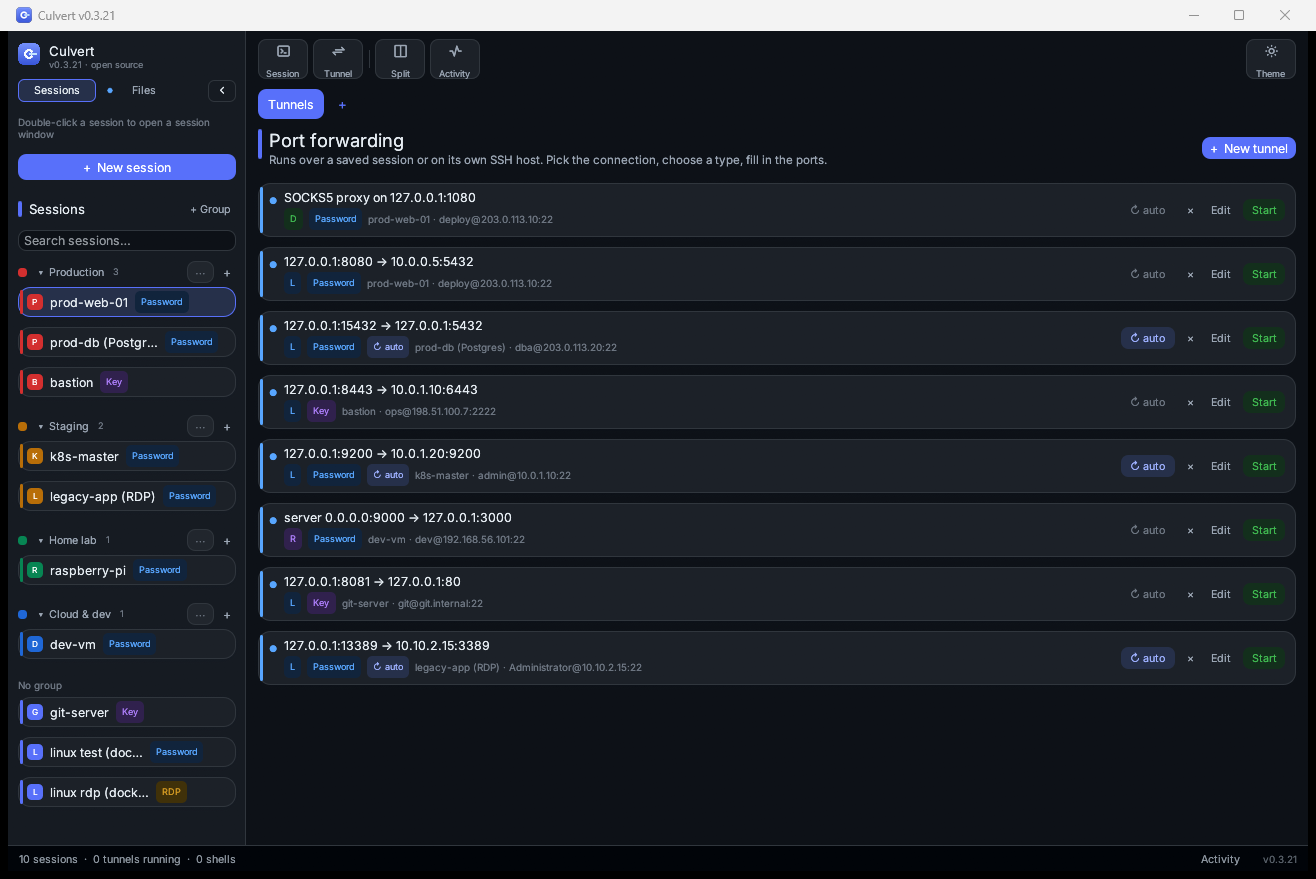
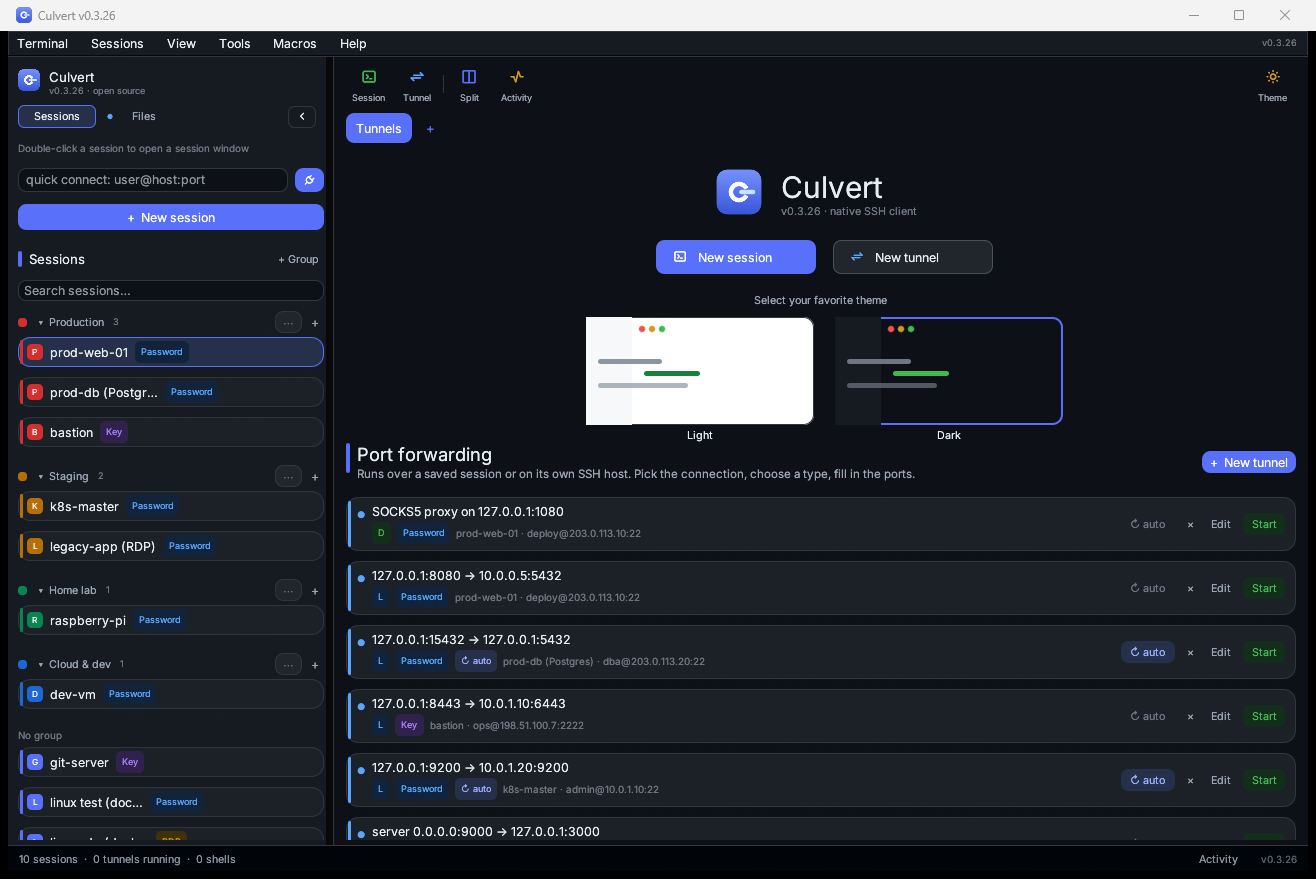
Refresh README screenshots (v0.3.26 UI) and document menu bar + RDP pass-through
All four screenshots re-captured with the current interface: full menu bar and tile toolbar, session quick-bar, connected shell, docked SFTP file browser, and the welcome hero with the theme picker in both dark and light themes. README gains the RDP pass-through and menu-bar feature bullets, mentions snippets/tunnels data files, and documents the tests/docker containers.

diff --git a/README.md b/README.md
@@ -25,6 +25,13 @@ small, self-contained tool, out of sight and out of the way.
 
 - **Sessions sidebar** — save host, port, username and auth once; double-click
   any session to open a shell tab (right-click for edit/duplicate/delete).
+- **Full menu bar** — Terminal / Sessions / View / Tools / Macros / Help above
+  a flat tile toolbar (Session · Tunnel · Split · Activity · Theme), all wired
+  to real actions.
+- **Windows RDP pass-through** — double-click an RDP session to launch the
+  system RDP client with saved credentials seeded into Windows Credential
+  Manager; loopback targets (WSL/docker relays at `127.0.0.1`) are remapped to
+  the WSL address so mstsc actually dials them.
 - **Built-in terminal tabs** — real PTY SSH sessions with 256-colour support,
   scrollback, resize, paste and proper key encoding (Ctrl codes, arrows, F-keys).
   If a session drops you get a reconnect card instead of a dead tab.
@@ -66,7 +73,8 @@ small, self-contained tool, out of sight and out of the way.
 ## Screenshots
 
 **One double-click, one shell** — grouped sessions sidebar opens straight
-into a tabbed terminal (real PTY, full colour, scrollback):
+into a tabbed terminal (real PTY, full colour, scrollback), with the menu
+bar, tile toolbar and the session quick-bar above the shell:
 
 ![Connected shell](docs/screenshots/session-shell.png)
 
@@ -77,7 +85,8 @@ focused:
 ![File browser](docs/screenshots/filebrowser.png)
 
 **Tunnel manager** — Local, Remote and Dynamic forwards as rows with
-per-tunnel Start/Stop, auto-reconnect and port-collision guard:
+per-tunnel Start/Stop, auto-reconnect and port-collision guard (the welcome
+hero with the theme picker sits on top when no shell tab is open):
 
 ![Tunnel manager](docs/screenshots/tunnels-dark.png)
 
@@ -129,7 +138,8 @@ field before saving.
 
 Sessions (including credentials) are stored as JSON:
 
-- Windows: `%APPDATA%\culvert\sessions.json` (groups live next to it in `groups.json`)
+- Windows: `%APPDATA%\culvert\sessions.json` (groups, snippets and tunnels live
+  next to it in `groups.json`, `snippets.json` and `tunnels.json`)
 - Linux/macOS: `~/.config/culvert/sessions.json`
 
 Upgrading from an earlier build? Your sessions are imported automatically from
@@ -188,6 +198,7 @@ workflow tags and publishes that version automatically.
 | `src/log.rs` | Activity log types |
 | `build.rs` | Embeds the icon + metadata into the Windows `.exe` |
 | `assets/` | Brand icon and bundled UI fonts (Inter, JetBrains Mono) |
+| `tests/docker/` | Test servers: SSH container and an xrdp 0.10 RDP container for verifying RDP hand-off (`refresh-rdp.sh`) |
 | `.github/workflows/release.yml` | Build + release pipeline for `main` |
 
 ## License
